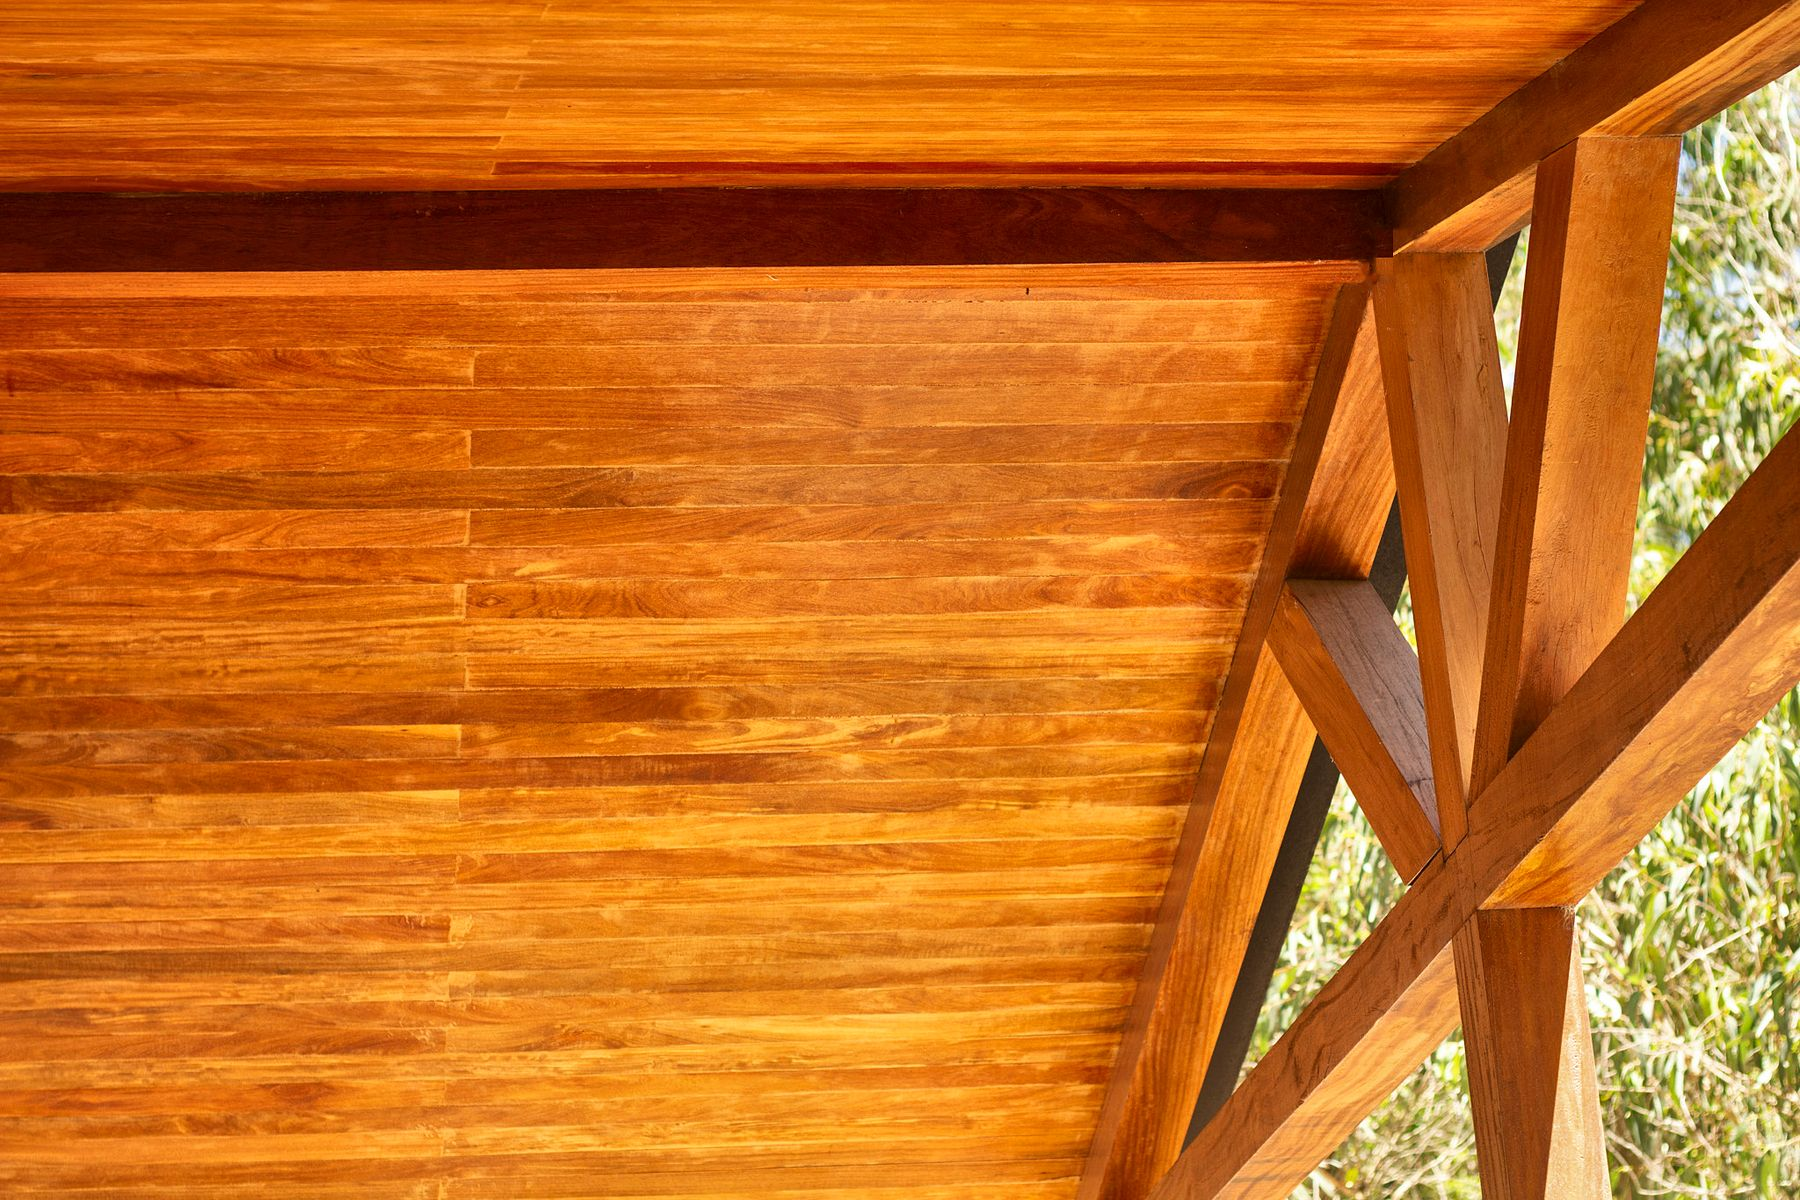
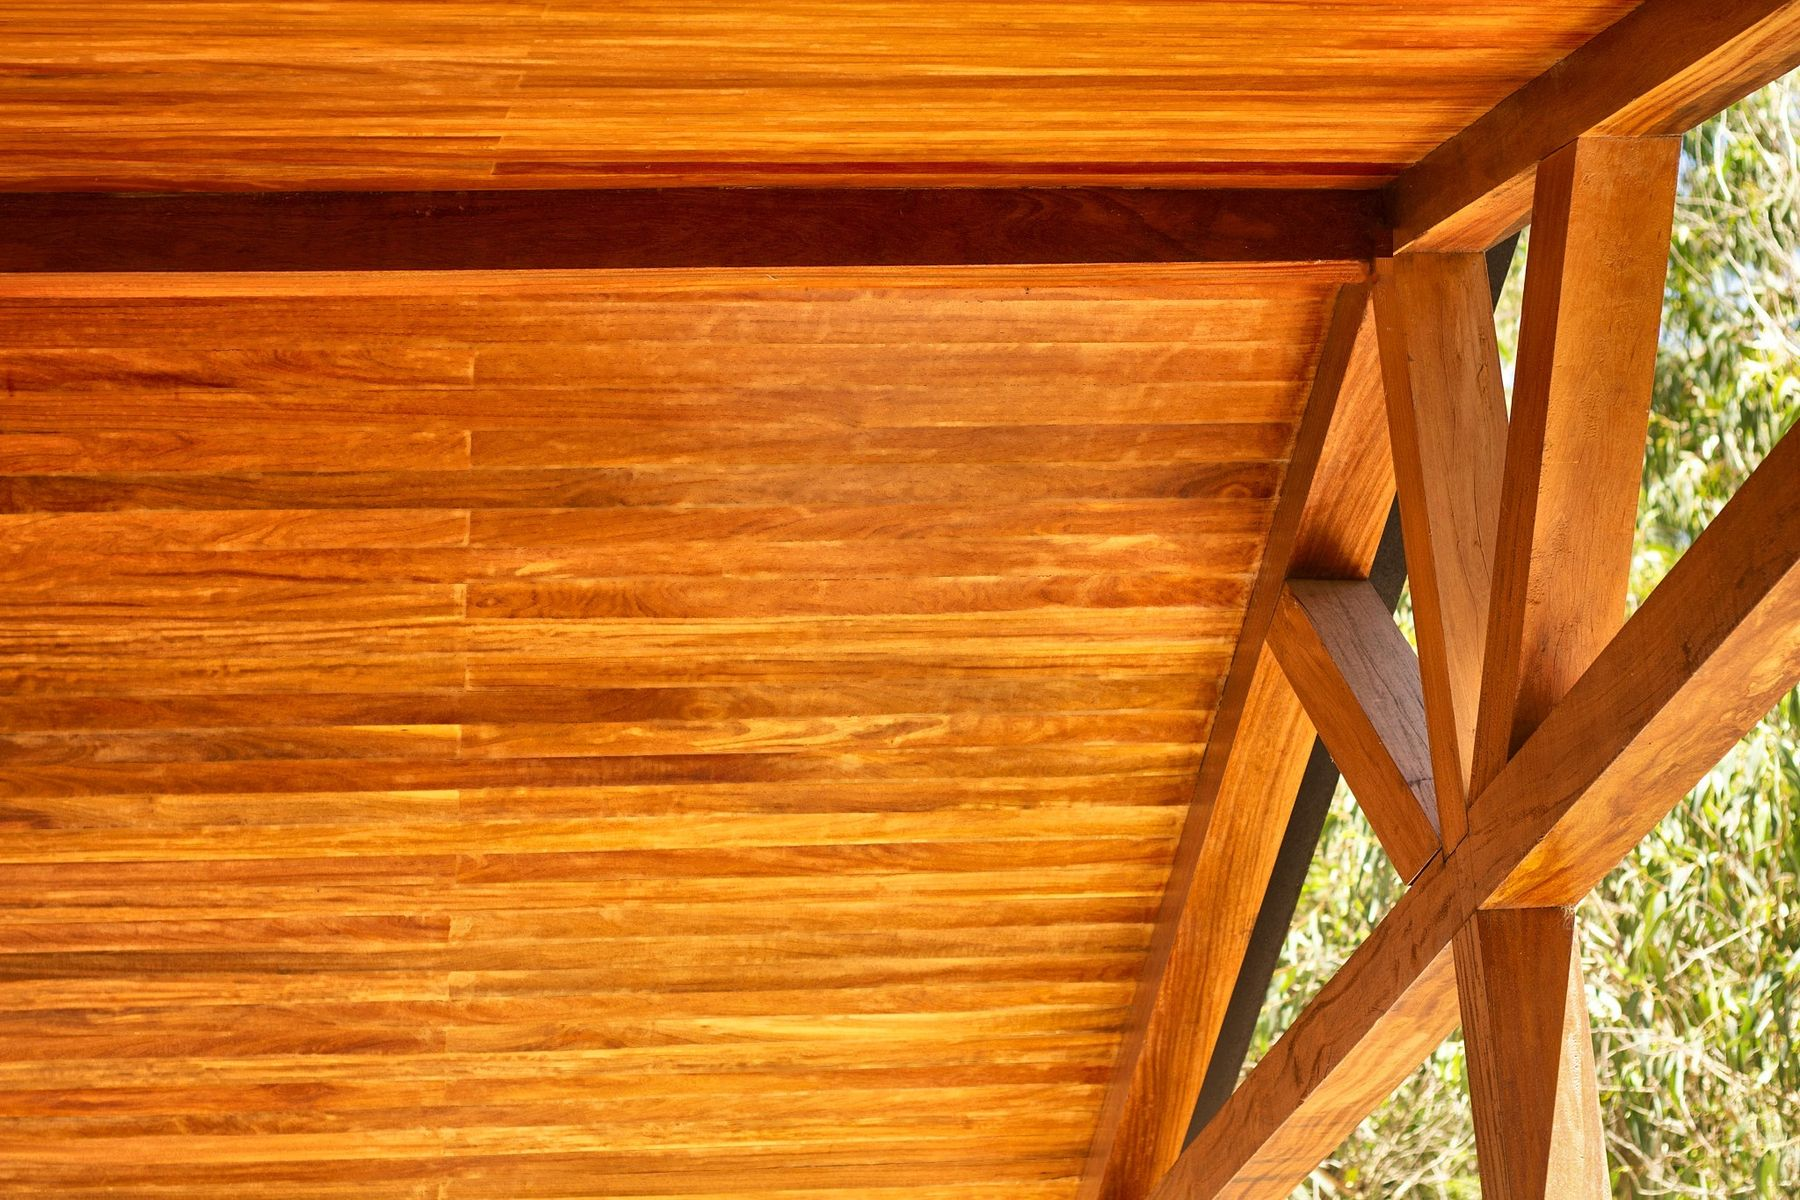
Web SBU: cielorraso con el machimbre emparejado
Claude-Session: https://claude.ai/code/session_017rAcojMQWWqPEBy1PCDp9j

diff --git a/web/index.html b/web/index.html
@@ -355,7 +355,7 @@ footer .w{display:flex;flex-wrap:wrap;gap:18px 40px;justify-content:space-betwee
   </ol>
 </div></section>
 <figure class="obra">
-  <img src="img/obra-cielorraso-1800.jpg?v=2" srcset="img/obra-cielorraso-900.jpg?v=2 900w, img/obra-cielorraso-1800.jpg?v=2 1800w" sizes="100vw" alt="cielorraso de madera dura" loading="lazy" style="object-position:40% 50%">
+  <img src="img/obra-cielorraso-1800.jpg?v=3" srcset="img/obra-cielorraso-900.jpg?v=3 900w, img/obra-cielorraso-1800.jpg?v=3 1800w" sizes="100vw" alt="cielorraso de madera dura" loading="lazy" style="object-position:40% 50%">
   <figcaption><div class="w"><div class="eyebrow">Obra real · cielorraso de madera dura</div><b>Terminaciones que se sienten.</b><span>Madera noble donde se ve, aislación donde no. Pensado para durar.</span></div></figcaption>
 </figure>
 </main>
